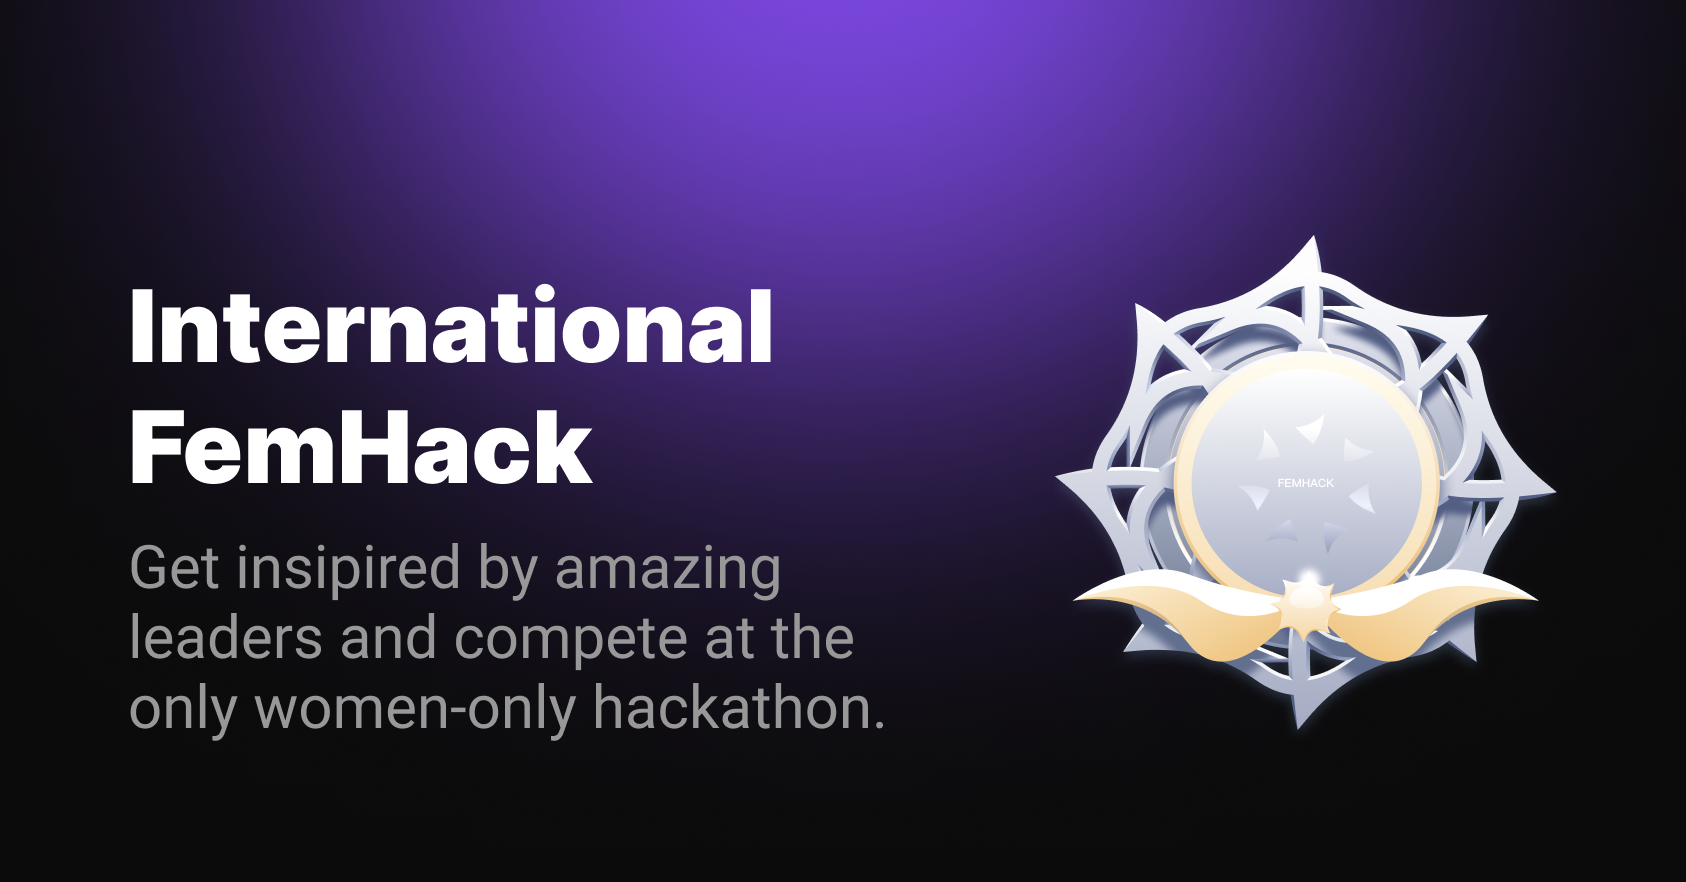
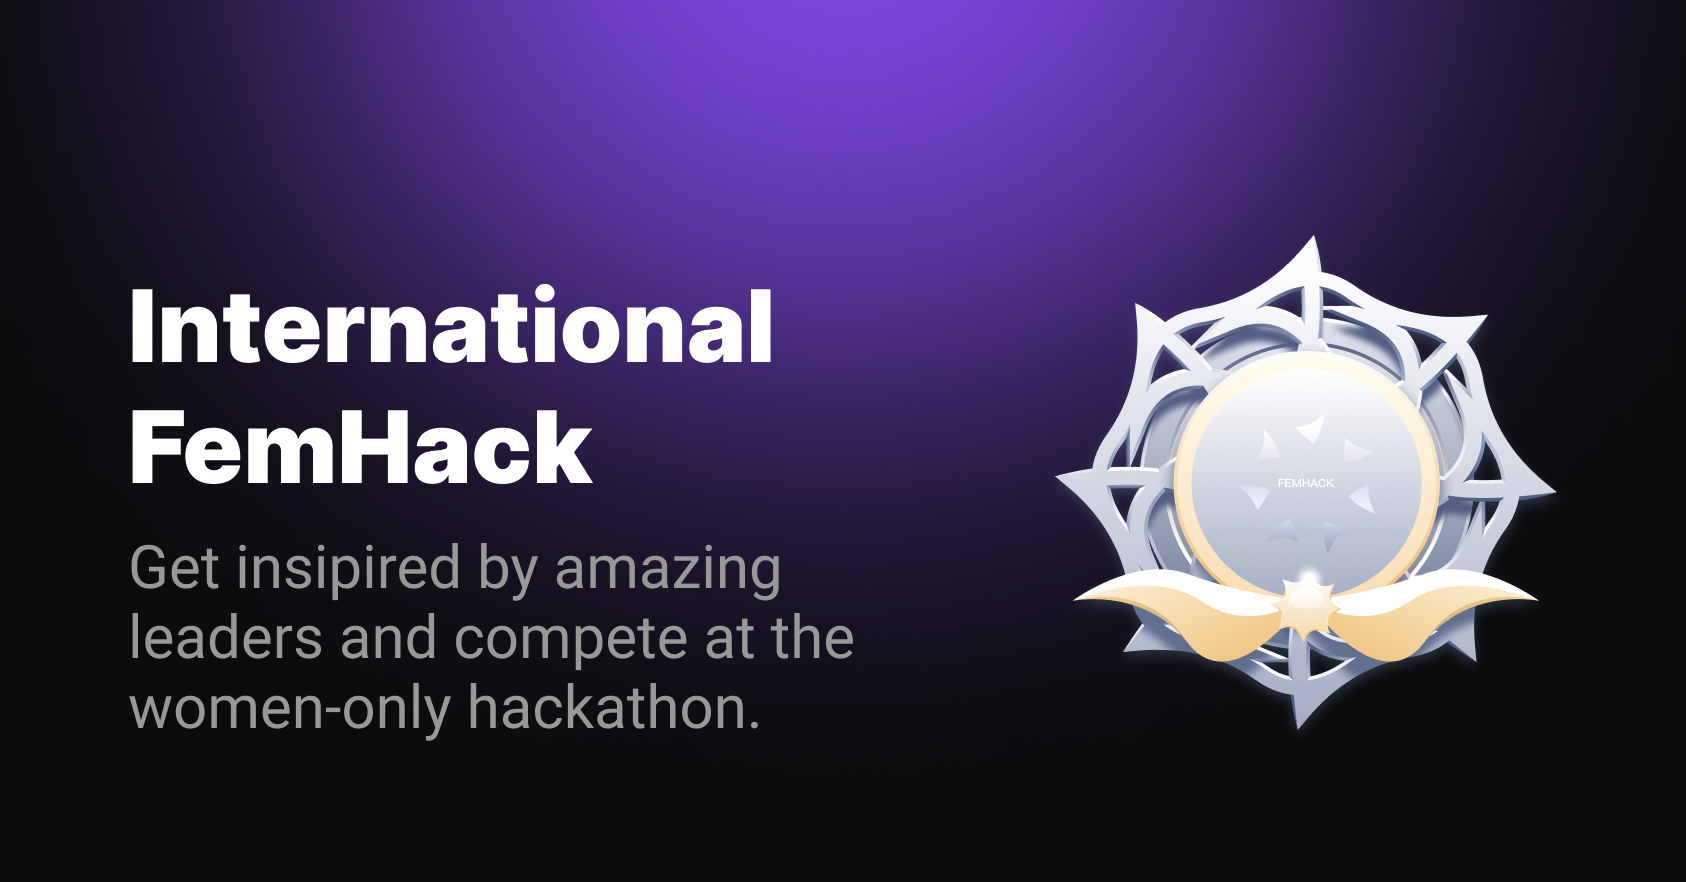
add changes

Changed region(s): [[0.0617, 0.7653, 0.5243, 0.8265]]

diff --git a/lib/email/scheduler.ts b/lib/email/scheduler.ts
@@ -5,13 +5,13 @@ import schedule from 'node-schedule';
 import Mail from 'nodemailer/lib/mailer';
 
 type ScheduleObject = {
-  setDate: string; // 2021-10-26 14:13:00
+  setDate: Date; // 2021-10-26 14:13:00
   transporter: Mail;
   mailOptions: any;
 };
 
 type PipelineObject = {
-  setDate: string; // 2021-10-26 14:13:00
+  setDate: Date; // 2021-10-26 14:13:00
   transporter: Mail;
   mailOptions: any;
   followOptions: any;
@@ -29,7 +29,7 @@ type PipelineAlert = {
   type: MomentTypes;
 };
 
-const setUpSchdule = (rule: schedule.RecurrenceRule, date: any) => {
+const setUpSchdule = (rule: schedule.RecurrenceRule, date: Date) => {
   rule.tz = 'Europe/Madrid';
   rule.year = moment(date).year();
   rule.month = moment(date).month();
@@ -71,10 +71,10 @@ export const scheduleEmailPipeline = async (
   await transporter.sendMail(mailOptions);
 
   // Followup
-  scheduleEmail({ setDate: followupDate, transporter, mailOptions: followOptions });
+  scheduleEmail({ setDate: new Date(followupDate), transporter, mailOptions: followOptions });
 
   // Last alert
-  scheduleEmail({ setDate: beforeStart, transporter, mailOptions: alertOptions });
+  scheduleEmail({ setDate: new Date(beforeStart), transporter, mailOptions: alertOptions });
 
   // Send when starts
   scheduleEmail({ setDate, transporter, mailOptions: liveOptions });

diff --git a/lib/constants.ts b/lib/constants.ts
@@ -5,9 +5,9 @@ export const BRAND_NAME = 'International FemHack';
 export const SITE_NAME_MULTILINE = ['International', 'FemHack'];
 export const SITE_NAME = 'International FemHack';
 export const META_DESCRIPTION =
-  'FemHack consists of an online hackathon event where women programmers will have to develop different challenges that will be proposed to them in the modalities of Frontend, Backend, Mobile, and Data Science.';
-export const SITE_DESCRIPTION = 'The first international online hackathon for women programmers.';
-export const DATE = 'January 21, 2022';
+  'The International FemHack is an online event composed of a female-only international Hackaton on the modalities of Frontend, Backend and Data Science and a series of talks by tech industry leaders opened for everyone.';
+export const SITE_DESCRIPTION = 'Listen to the top tech female liders from comapnies such as Google or Novartis';
+export const DATE = 'January 21-23, 2022';
 export const SHORT_DATE = 'Jan 21 - 5:00pm CEST';
 export const FULL_DATE = 'Jan 21th 5pm Central European Summer Time (UTC+2)';
 export const TWEET_TEXT = META_DESCRIPTION;

diff --git a/pages/join.tsx b/pages/join.tsx
@@ -48,12 +48,12 @@ export default function Join() {
             </h1>
             <div className={cn(styleUtils.appear, styleUtils['appear-third'])}>
               <p className={styles.pdiv}>
-                If you join as a competetior you'll also be joining as a viewer, so do not worry.
+                If you join as a competitor you'll also be joining as a viewer, so do not worry.
                 We'll keep you updated every step of the way
               </p>
               <div className={styles.buttonsdiv}>
                 <div style={{ margin: '20px' }}>
-                  <Link href="https://nuwe.io/femhack">
+                  <Link href="https://nuwe.io/event/femhack">
                     <button type="button" className={styles.button}>
                       Be a competitor
                     </button>

diff --git a/components/hero.tsx b/components/hero.tsx
@@ -17,8 +17,8 @@ export default function Hero() {
         {SITE_DESCRIPTION}
       </h2>
       <h1 className={cn(styleUtils.appear, styleUtils['appear-third'], styles.hero)}>
-        The first International
-        <br className={styleUtils['show-on-desktop']} /> women-only Hackathon
+        Listen to the top
+        <br className={styleUtils['show-on-desktop']} /> tech female liders
       </h1>
       <h2
         className={cn(

diff --git a/components/form.tsx b/components/form.tsx
@@ -128,7 +128,7 @@ export default function Form({ sharePage }: Props) {
             onChange={e => setEmail(e.target.value)}
             onFocus={() => setFocused(true)}
             onBlur={() => setFocused(false)}
-            placeholder="Enter email to register free"
+            placeholder="Enter email to register"
             aria-label="Your email address"
             required
           />
